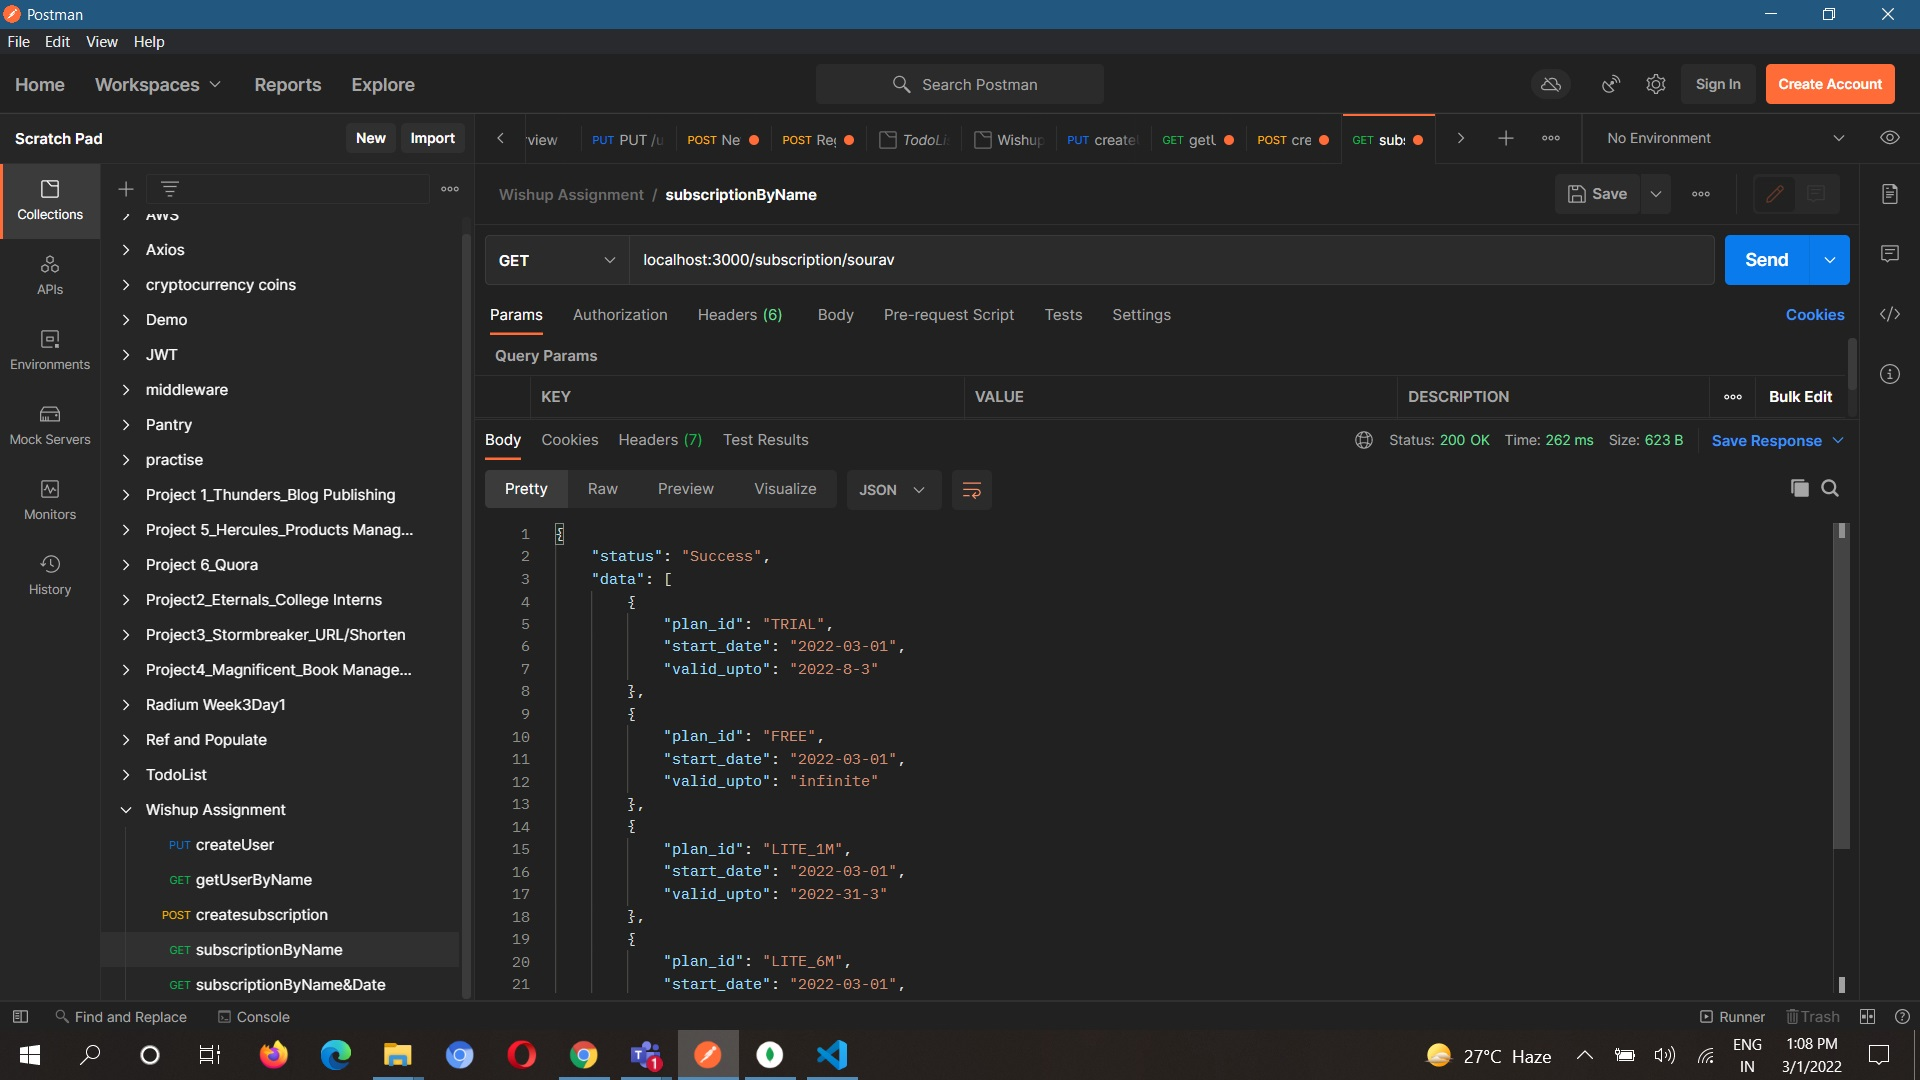
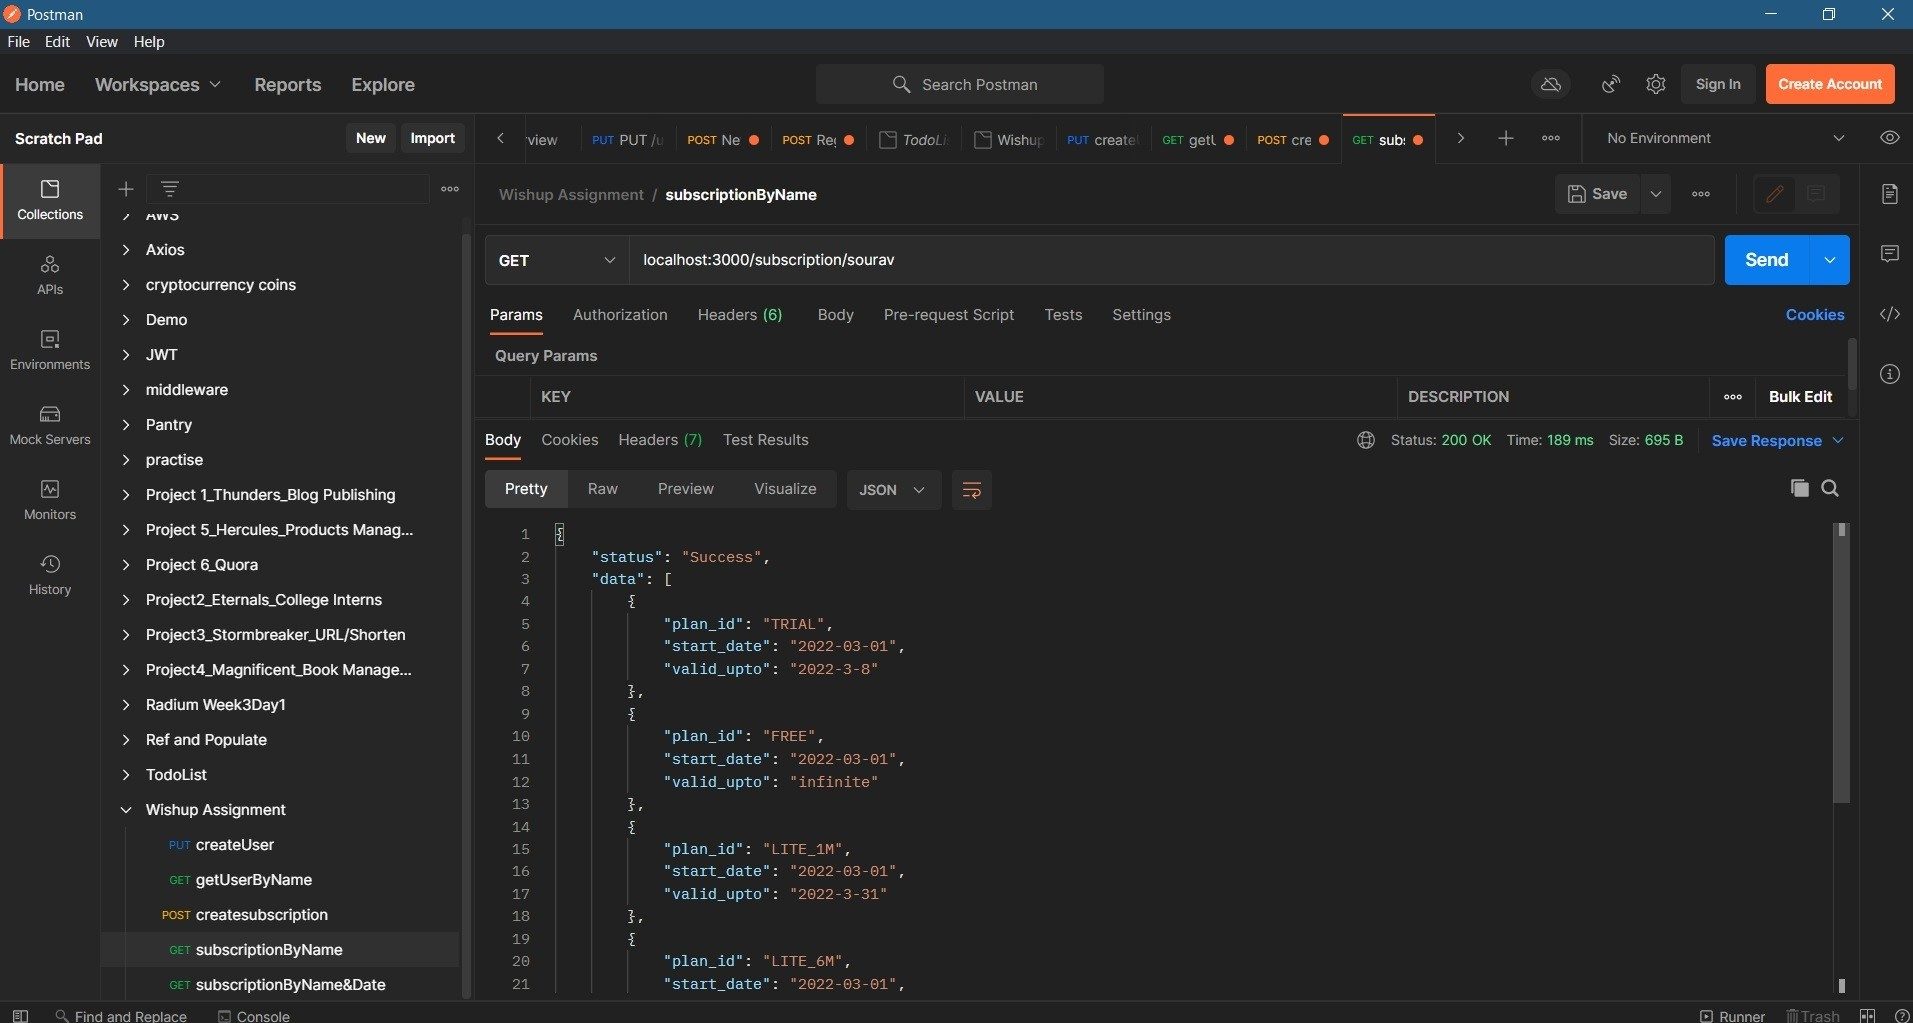
wishupAssignment

diff --git a/src/controller/subscriptionController.js b/src/controller/subscriptionController.js
@@ -85,9 +85,9 @@ const getSubscription = async (req, res) => {
     let validSubscription = []
 
     for (let i in findSubscription) {
-      const start_date = findSubscription[i].start_date
+      const start_date = findSubscription[i].start_date     
       const newDate = new Date(`${start_date} 00:00:00`);   //newdate convert into dateformat.
-      const convertToMilliseconds = newDate.getTime();
+      const convertToMilliseconds = newDate.getTime();      
 
       if (findSubscription[i].plan_id === 'FREE') {        //If subscription is free than plane go to infinte.
 
@@ -99,20 +99,19 @@ const getSubscription = async (req, res) => {
         validSubscription.push(responseObject)
       } else {
         const planIndex = planId.indexOf(findSubscription[i].plan_id)
-        const validDays = planValidity[planIndex]                  // checking validDays
+        const validDays = planValidity[planIndex]                  // checking how many validDays
         const remainingDays = (validDays * 24 * 60 * 60 * 1000) + convertToMilliseconds  //checking remainingDays & converting date-time into Milliseconds
 
         const valid_upto = new Date(remainingDays).toLocaleDateString()    // toLocaleDateString convert it in a given format
         let splitDate = valid_upto.split('/')
 
         const responseObject = {
-          plan_id: findSubscription[i].plan_id,                              // changing valid upto validity
+          plan_id: findSubscription[i].plan_id,                              // changing valid_upto validity
           start_date: findSubscription[i].start_date,
-          valid_upto: `${splitDate[2]}-${splitDate[1]}-${splitDate[0]}`
+          valid_upto: `${splitDate[2]}-${splitDate[0]}-${splitDate[1]}`
         }
         validSubscription.push(responseObject)
       }
-
     }
     return res.status(200).send({ status: "Success", data: validSubscription })
   } catch (error) {
